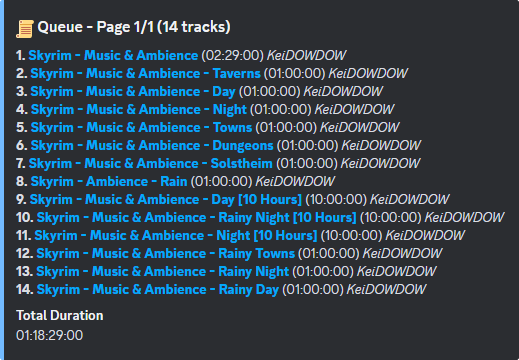
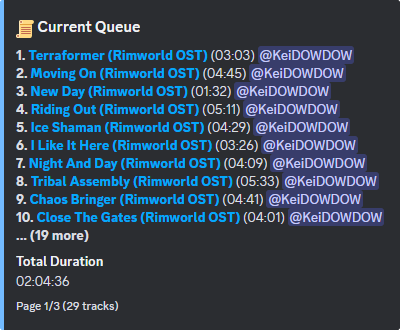
Some adjustments

diff --git a/cogs/general.py b/cogs/general.py
@@ -43,6 +43,11 @@ class General(commands.Cog):
                     await ctx.send(embed=embed)
                 else:
                     raise commands.BadArgument()
+            else:
+                embed = get_base_embed("⏭ Skipped")
+                embed.description = "Skipped {}".format(get_inline_details(data["playing"]))
+
+                await ctx.send(embed=embed)
 
             voice.stop()
         else:
@@ -68,19 +73,26 @@ class General(commands.Cog):
         queue: list[dict] = get_data(self.bot, ctx.guild.id)["queue"]
 
         if queue:
-            max_page = (len(queue) + 19) // 20
+            max_page = (len(queue) + 9) // 10
 
             if page > 0 and page <= max_page:
-                embed = get_base_embed("📜 Queue - Page {}/{} ({} track{})".format(page, max_page, len(queue), "s" if len(queue) > 1 else ""))
+                embed = get_base_embed("📜 Current Queue")
                 embed.description = ""
 
-                for i in range((page - 1) * 20, min(page * 20, len(queue))):
+                for i in range((page - 1) * 10, min(page * 10, len(queue))):
                     embed.description += "{}\n".format(get_inline_details(queue[i], index=(i + 1)))
+
+                remaining = len(queue) - page * 10
+
+                if remaining > 0:
+                    embed.description += "**... ({} more)**".format(remaining)
 
                 total_duration = sum(song["duration"] for song in queue if song["duration"])
 
                 if total_duration:
                     embed.add_field(name="Total Duration", value=to_timecode(total_duration))
+
+                embed.set_footer(text="Page {}/{} ({} track{})".format(page, max_page, len(queue), "s" if len(queue) > 1 else ""))
             else:
                 raise commands.BadArgument()
         else:

diff --git a/utils/embeds.py b/utils/embeds.py
@@ -28,7 +28,7 @@ def get_inline_details(song: dict, index: int = None, include_author: bool = Tru
     if include_author:
         context: commands.Context = song["context"]
         if context.author:
-            line += " *{}*".format(context.author.global_name)
+            line += " {}".format(context.author.mention)
 
     return line
 
@@ -46,7 +46,7 @@ def get_media_embed(media: dict, message_type: int) -> discord.Embed:
     link = "[**{}**]({})".format(media["title"], media["url"])
 
     if message_type == 0:
-        embed.description = "The song {} has been added to the queue.".format(link)
+        embed.description = "The song {} has been added to the queue at position **{}**.".format(link, media["position"])
     elif message_type == 1:
         embed.description = "The **{}** tracks from the playlist {} have been added to the queue.\n\n{}".format(media["count"], link, media["preview"])
     elif message_type == 2:

diff --git a/cogs/play.py b/cogs/play.py
@@ -48,6 +48,7 @@ class Play(commands.Cog):
 
                         song["channel"] = first.get("channel")
                         song["channel_url"] = first.get("channel_url")
+                        song["position"] = len(queue)
                         song["view_count"] = first.get("view_count")
                         song["thumbnail"] = get_thumbnail_url(first.get("id"))
 
@@ -131,6 +132,7 @@ class Play(commands.Cog):
 
                     song["channel"] = info.get("channel")
                     song["channel_url"] = info.get("channel_url")
+                    song["position"] = len(queue)
                     song["view_count"] = info.get("view_count")
                     song["thumbnail"] = info.get("thumbnail")
 
